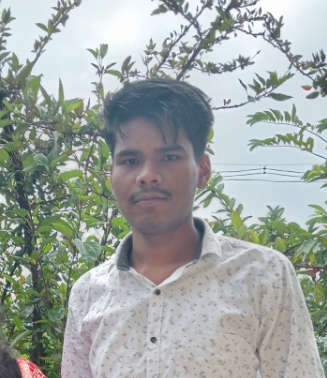
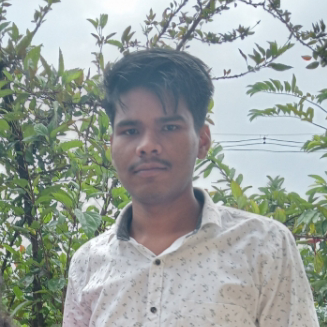
some changes/ updates

diff --git a/components/Work.js b/components/Work.js
@@ -33,11 +33,12 @@ const Work = () => {
                 <motion.div
                     whileHover={{ scale: 1.05 }}
                     transition={{ duration: 0.3 }}
-                    className="object-cover bg-center aspect-square rounded-lg cursor-pointer group relative" style={{ backgroundImage: "url('/profile pic.png')" }}>
+                    className="bg-contain bg-no-repeat dark:bg-purple-950/40  bg-center aspect-square rounded-lg cursor-pointer group relative" 
+                    style={{ backgroundImage: "url('/resources/iNoteBook.png')" }}>
                     <div className="flex justify-between items-center gap-2 absolute bottom-5 bg-slate-50 dark:bg-purple-950 rounded-lg  w-[80%] ml-[10%] p-2 text-sm group-hover:-translate-y-1 duration-300 group-hover:shadow-dark dark:group-hover:shadow-light">
                         <div className="w-full ">
-                            <h2 className="font-bold text-white/80">Geo Based App</h2>
-                            <p>Mobile app</p>
+                            <h2 className="font-bold text-white/80">iNOTEBOOK</h2>
+                            <p>Online note keeping app</p>
                         </div>
                         <motion.a
                             initial={{ opacity: 0 }}
@@ -50,7 +51,9 @@ const Work = () => {
                 </motion.div>
                 <motion.div
                     whileHover={{ scale: 1.05 }}
-                    transition={{ duration: 0.3 }} className="object-cover bg-center aspect-square rounded-lg cursor-pointer group relative" style={{ backgroundImage: "url('/profile pic.png')" }}>
+                    transition={{ duration: 0.3 }} 
+                    className="bg-contain bg-no-repeat dark:bg-purple-950/40 bg-center aspect-square rounded-lg cursor-pointer group relative" 
+                    style={{ backgroundImage: "url('/profile pic.png')" }}>
                     <div className="flex justify-between items-center gap-2 absolute bottom-5 bg-slate-50 dark:bg-purple-950 rounded-lg  w-[80%] ml-[10%] p-2 text-sm group-hover:-translate-y-1 duration-300 group-hover:shadow-dark dark:group-hover:shadow-light">
                         <div className="w-full ">
                             <h2 className="font-bold">Frontend project</h2>
@@ -63,11 +66,13 @@ const Work = () => {
                 </motion.div>
                 <motion.div
                     whileHover={{ scale: 1.05 }}
-                    transition={{ duration: 0.3 }} className="object-cover bg-center aspect-square rounded-lg cursor-pointer group relative" style={{ backgroundImage: "url('/profile pic.png')" }}>
+                    transition={{ duration: 0.3 }} 
+                    className="bg-contain bg-no-repeat dark:bg-purple-950/40 bg-center aspect-square rounded-lg cursor-pointer group relative" 
+                    style={{ backgroundImage: "url('/resources/solar-pv-system.jpg')" }}>
                     <div className="flex justify-between items-center gap-2 absolute bottom-5 bg-slate-50 dark:bg-purple-950 rounded-lg  w-[80%] ml-[10%] p-2 text-sm group-hover:-translate-y-1 duration-300 group-hover:shadow-dark dark:group-hover:shadow-light">
                         <div className="w-full ">
-                            <h2 className="font-bold">UI/UX Designing</h2>
-                            <p>UI/UX Design</p>
+                            <h2 className="font-bold">Solar PV System</h2>
+                            <p>Project for Client</p>
                         </div>
                         <div className="p-1 rounded-full hover:bg-slate-300 border group-hover:bg-purple-600 group-hover:-translate-y-1 group-hover:shadow-dark dark:group-hover:shadow-light duration-300  border-purple-900  ">
                             <img className="object-cover w-6 aspect-square dark:invert" src="/svg/sent-stroke-rounded.svg" alt="hamburger" />

diff --git a/components/Services.js b/components/Services.js
@@ -52,7 +52,7 @@ const Services = () => {
                     className="grid border border-slate-700 rounded-lg p-4 cursor-pointer hover:-translate-y-1 hover:bg-lightHover duration-300 hover:shadow-dark dark:hover:bg-darkHover dark:hover:shadow-light">
                     <Image width={100} height={100} className="w-10 h-10 object-cover rounded" src="/profile pic.png" alt="gddf" />
                     <h3 className="font-bold">
-                        Frontend Development
+                        Backend Development
                     </h3>
                     <p>
                         Focusing on APIs and Databases
